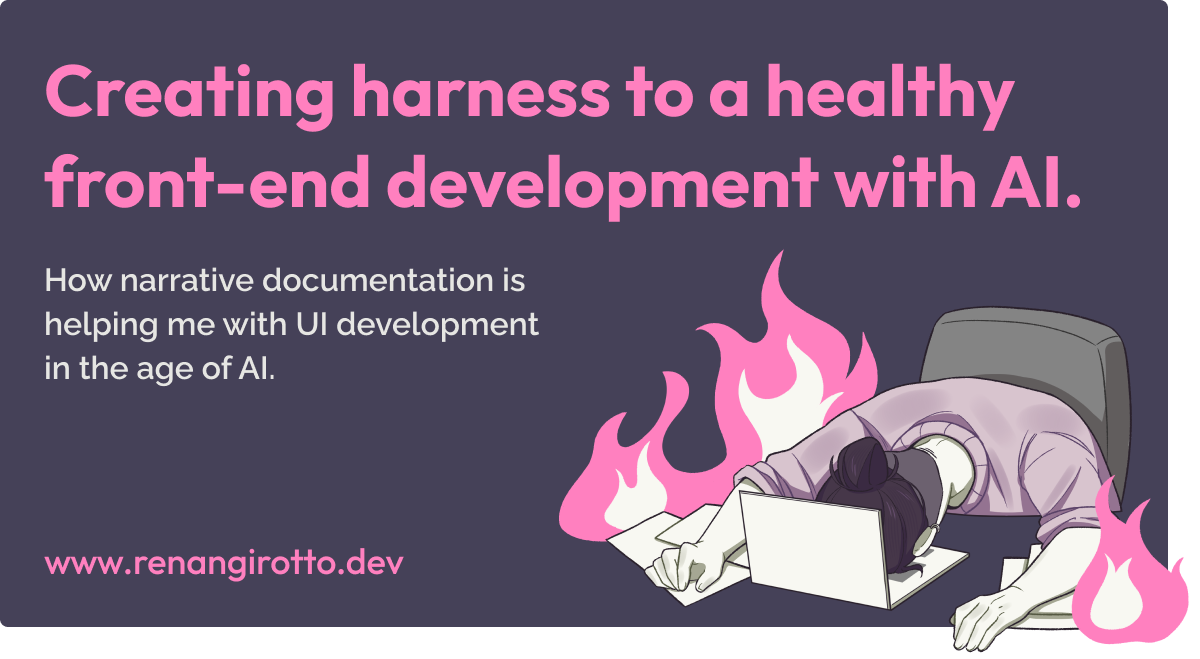
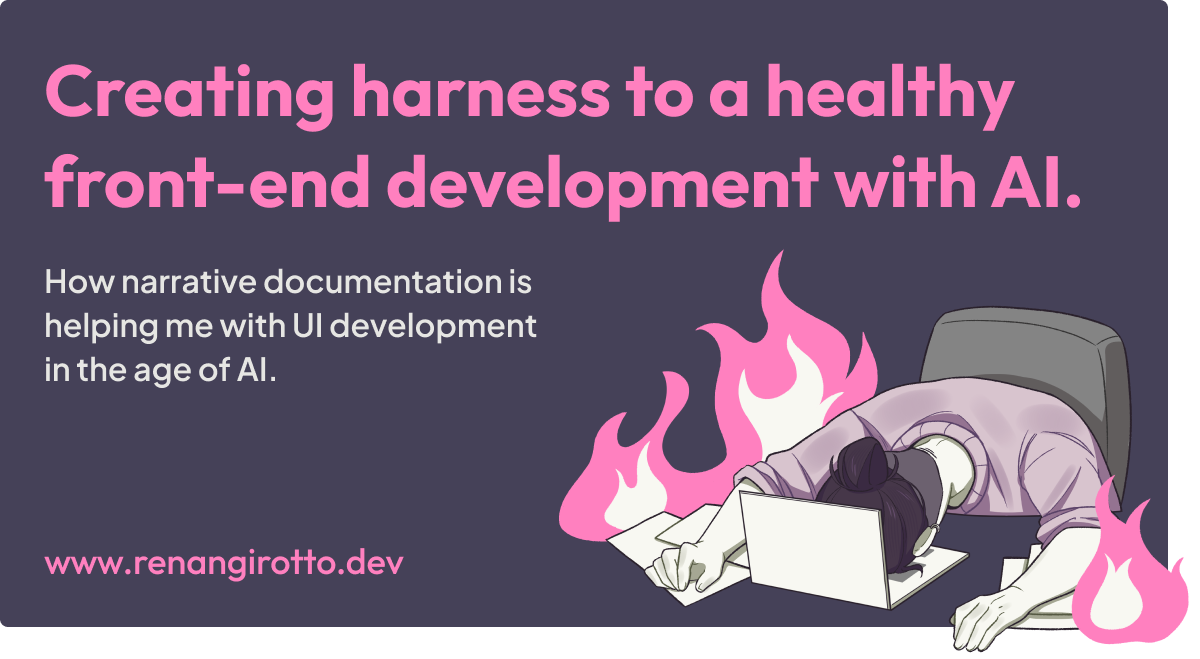
feat: add new fonts

Changed region(s): [[0.0308, 0.3945, 0.4625, 0.5159], [0.0308, 0.5463, 0.2467, 0.607]]

diff --git a/src/styles/typography.css b/src/styles/typography.css
@@ -1,5 +1,5 @@
 body {
-  font-family: "Raleway Variable", sans-serif;
+  font-family: "Plus Jakarta Sans Variable", sans-serif;
   font-weight: 400;
   line-height: 1.5;
   color: light-dark(
